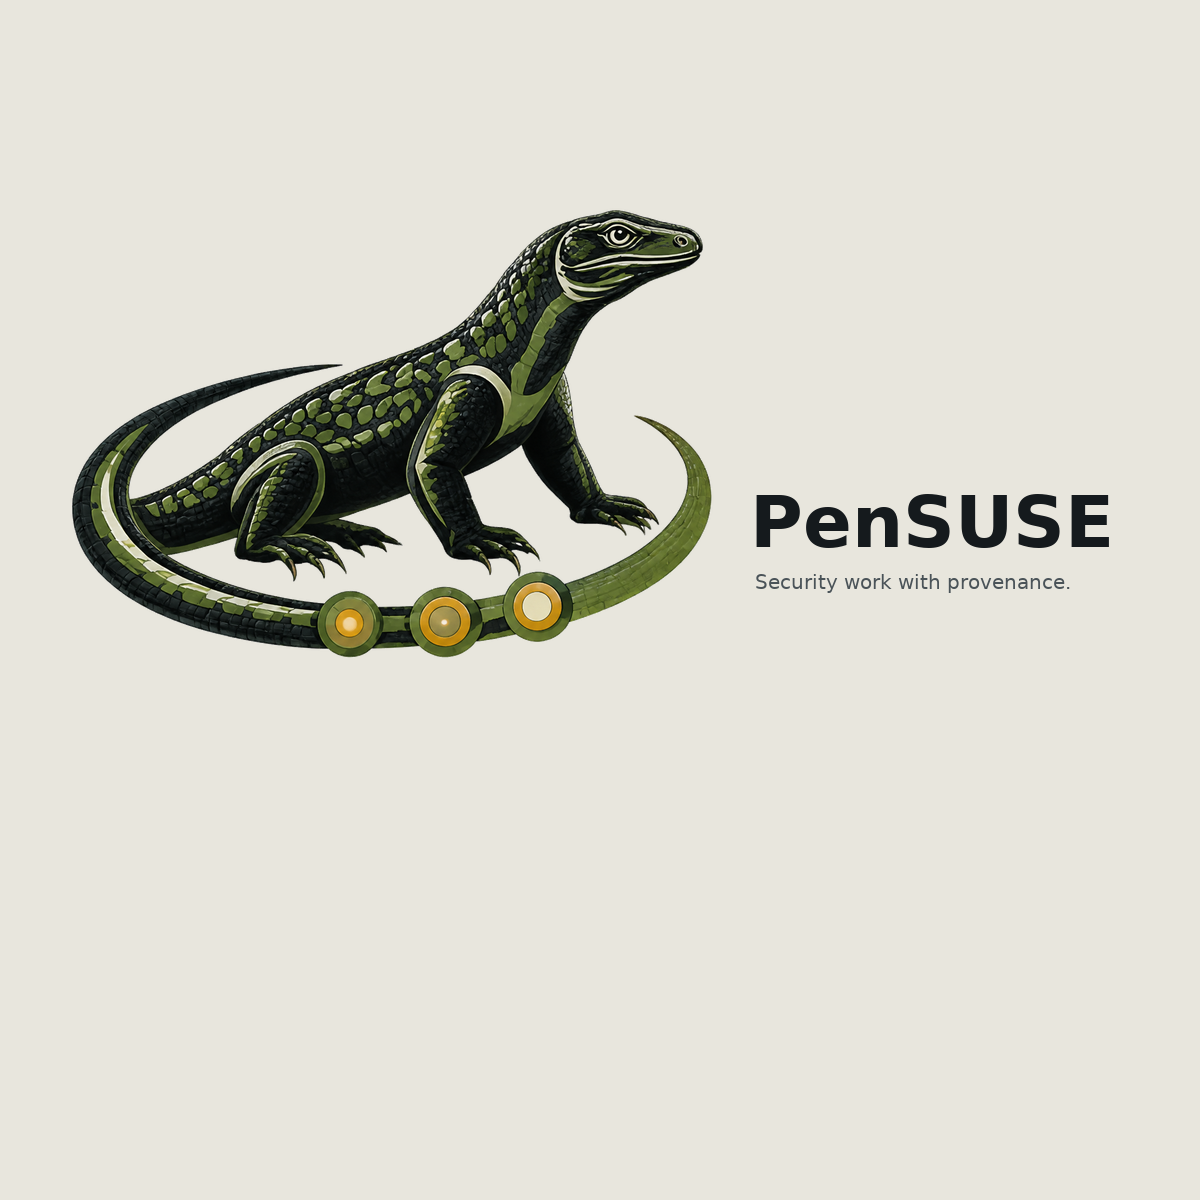
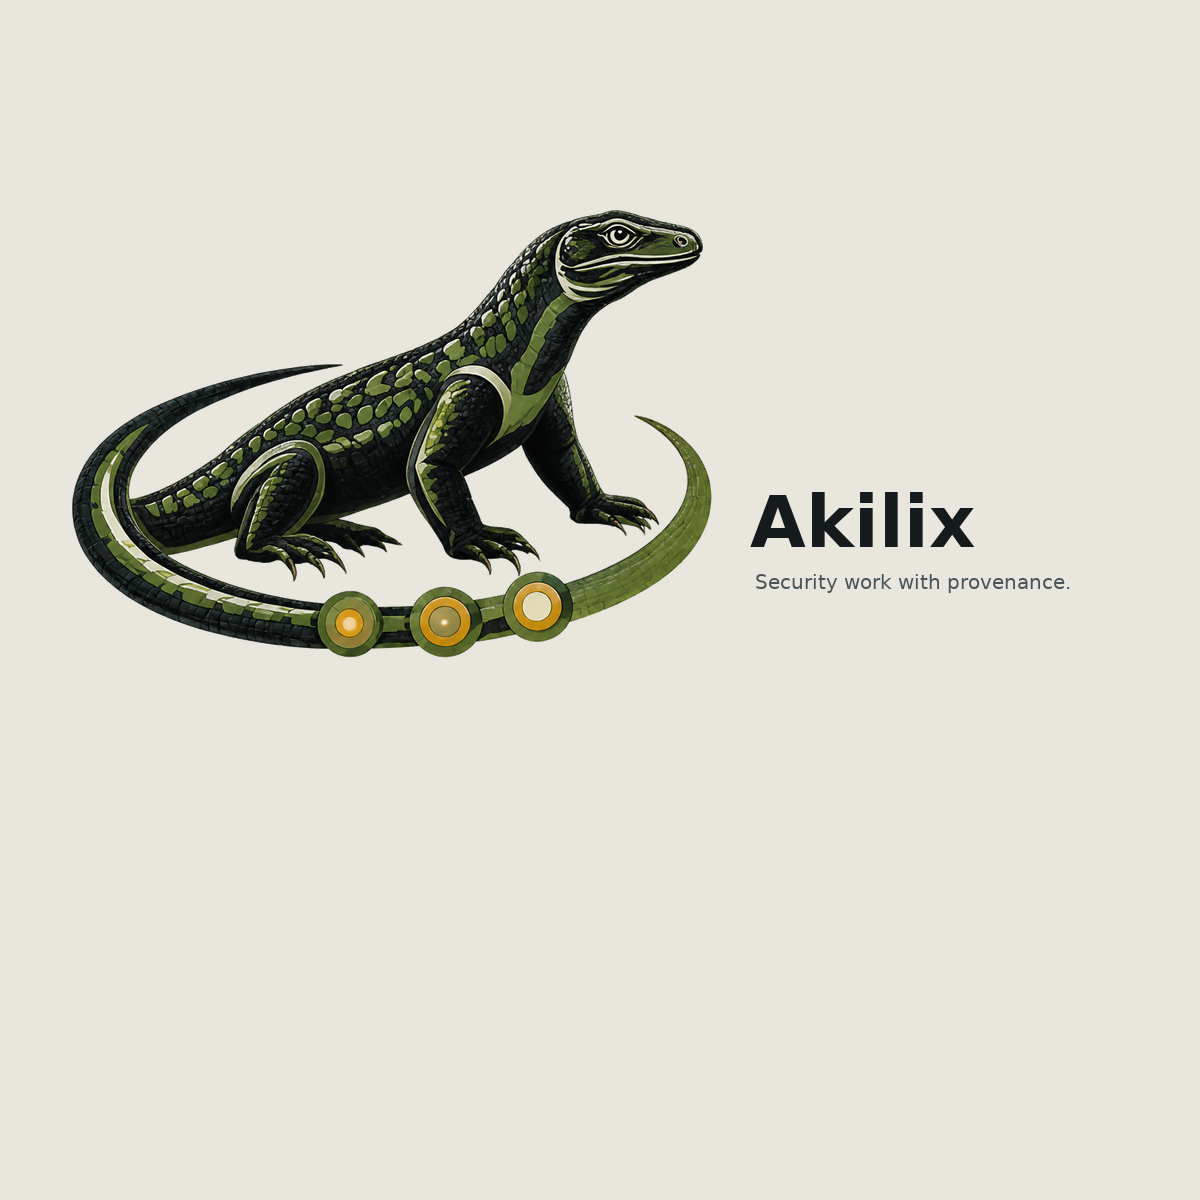
Complete Akilix visual identity

Changed region(s): [[0.6167, 0.4008, 0.925, 0.4625]]

diff --git a/branding/tools/build-assets.py b/branding/tools/build-assets.py
@@ -19,9 +19,9 @@ def place(bg, im, box): bg.alpha_composite(*contain(im, box))
 def text_logo(size, dark=True, tagline=True):
     im = Image.new('RGBA', size, (0,0,0,0)); d=ImageDraw.Draw(im); f=font(max(24,size[1]//4), True)
     x=size[0]//3; y=size[1]//3
-    d.text((x,y), 'Pen', font=f, fill=BONE if dark else GRAPHITE)
-    penw=d.textbbox((x,y),'Pen',font=f)[2]-x
-    d.text((x+penw-3,y), 'SUSE', font=f, fill=LEAF if dark else GREEN)
+    d.text((x,y), 'Aki', font=f, fill=BONE if dark else GRAPHITE)
+    prefixw=d.textbbox((x,y),'Aki',font=f)[2]-x
+    d.text((x+prefixw-3,y), 'lix', font=f, fill=LEAF if dark else GREEN)
     if tagline: d.text((x+2,y+f.size+10), 'SECURITY WORK WITH PROVENANCE.', font=font(max(12,size[1]//25)), fill='#AAB1AF' if dark else SLATE)
     return im
 def logo(size, dark=True, tagline=True):
@@ -62,4 +62,23 @@ def main():
     for i,(label,im) in enumerate(cards):
         x=40+(i%2)*780; y=85+(i//2)*255; cd.text((x,y),label,font=font(18,True),fill=LEAF); thumb=im.convert('RGBA'); thumb.thumbnail((720,210)); contact.paste(thumb,(x,y+28),thumb)
     contact.save(ROOT/'preview.png','PNG',optimize=False)
+
+    # Reference boards are generated from canonical Akilix assets so historical
+    # exploratory artwork cannot accidentally reintroduce the retired name.
+    board1=Image.new('RGBA',(1536,1024),GRAPHITE); bd=ImageDraw.Draw(board1)
+    bd.text((64,48),'AKILIX IDENTITY',font=font(44,True),fill=BONE)
+    bd.text((67,108),'Security work with provenance.',font=font(22),fill=SLATE)
+    place(board1,FULL,(40,180,760,760)); place(board1,darklogo,(720,250,760,360))
+    palette=[BG,GRAPHITE,BONE,GREEN,LEAF,AMBER,SLATE]
+    for i,color in enumerate(palette): bd.rectangle((760+i*92,720,832+i*92,792),fill=color)
+    board1.convert('RGB').save(ROOT/'reference/concept-board-01.png','PNG',optimize=False)
+
+    board2=Image.new('RGBA',(1536,1024),BG); bd=ImageDraw.Draw(board2)
+    bd.text((64,48),'AKILIX SYSTEM SURFACES',font=font(40,True),fill=BONE)
+    samples=[('COMPACT MARK',HEAD),('BOOT',ply),('DESKTOP',Image.open(ROOT/'os/wallpaper/akilix-1920x1080.png')),('SOCIAL',Image.open(ROOT/'web/social-card-1200x630.png'))]
+    for i,(label,sample) in enumerate(samples):
+        x=64+(i%2)*736; y=130+(i//2)*420
+        bd.text((x,y),label,font=font(18,True),fill=LEAF)
+        thumb=sample.convert('RGBA'); thumb.thumbnail((680,360)); board2.alpha_composite(thumb,(x,y+38))
+    board2.convert('RGB').save(ROOT/'reference/concept-board-02.png','PNG',optimize=False)
 if __name__=='__main__': main()

diff --git a/branding/tools/generate-terminal.py b/branding/tools/generate-terminal.py
@@ -7,8 +7,8 @@ assets = {
  'akilix-ascii-small.txt': '      __\n _..-\'  `-._\n/___  ___  _\\\n   `-o-o-o-\'\n Akilix',
  'akilix-ascii-micro.txt': '_/\\_ o-o\nAkilix',
  'akilix-unicode.txt': '    ╭─╮   ●─●─●\n ╭──╯ ╰──╮  Akilix\n ╰───────╯',
- 'akilix-ansi-dark.txt': '\033[32m    __/\\__\033[0m  \033[33m●─●─●\033[0m\n\033[1;37mPen\033[32mSUSE\033[0m\n\033[90mSecurity work with provenance.\033[0m',
- 'akilix-ansi-light.txt': '\033[32m    __/\\__\033[0m  \033[33m●─●─●\033[0m\n\033[1;30mPen\033[32mSUSE\033[0m\n\033[90mSecurity work with provenance.\033[0m',
- 'akilix-ansi.txt': '\033[32m       __\033[0m\n\033[32m _..--\'  `-._\033[0m\n\033[1;37mPen\033[32mSUSE\033[0m  \033[33m●─●─●\033[0m\n\033[90mSecurity work with provenance.\033[0m',
+ 'akilix-ansi-dark.txt': '\033[32m    __/\\__\033[0m  \033[33m●─●─●\033[0m\n\033[1;37mAki\033[32mlix\033[0m\n\033[90mSecurity work with provenance.\033[0m',
+ 'akilix-ansi-light.txt': '\033[32m    __/\\__\033[0m  \033[33m●─●─●\033[0m\n\033[1;30mAki\033[32mlix\033[0m\n\033[90mSecurity work with provenance.\033[0m',
+ 'akilix-ansi.txt': '\033[32m       __\033[0m\n\033[32m _..--\'  `-._\033[0m\n\033[1;37mAki\033[32mlix\033[0m  \033[33m●─●─●\033[0m\n\033[90mSecurity work with provenance.\033[0m',
  'akilix-motd.txt': '  __/\\__  ●─●─●\n Akilix\n Security work with provenance.'}
 for name, data in assets.items(): (root / name).write_text(data + '\n', encoding='utf-8')

diff --git a/scripts/check-branding.py b/scripts/check-branding.py
@@ -82,6 +82,16 @@ for path in ROOT.rglob("*.svg"):
     if re.search(r"<script|(?:href|xlink:href|src)\s*=\s*['\"](?:https?://|data:)", text, re.I):
         FAILURES.append(f"SVG contains script or remote/embedded reference: {path.relative_to(ROOT)}")
 
+for pattern in ("*.md", "*.py", "*.svg", "*.txt", "*.css", "*.scss", "*.json"):
+    for path in ROOT.rglob(pattern):
+        try:
+            text = path.read_text(encoding="utf-8")
+        except (OSError, UnicodeError) as error:
+            FAILURES.append(f"invalid branding text: {path.relative_to(ROOT)}: {error}")
+            continue
+        if "PenSUSE" in text:
+            FAILURES.append(f"retired PenSUSE identity in {path.relative_to(ROOT)}")
+
 for path in (ROOT / "terminal").glob("akilix-ascii-*.txt"):
     try:
         if any(ord(character) > 127 for character in path.read_text(encoding="utf-8")):

diff --git a/docs/IDENTITY.md b/docs/IDENTITY.md
@@ -11,14 +11,10 @@ silently rewritten: forensic and provenance records must never be mutated by a
 branding migration. Any future importer must preserve the original bytes and
 record the migration explicitly.
 
-The Git remote remains at its existing repository location until its owner
-renames it. The Go module declares the intended future repository path
-`github.com/Is0cre/Akilix`; local builds do not require the remote rename.
+The canonical Git remote and Go module path are `github.com/Is0cre/Akilix`.
 
 ## Visual transition
 
-The renamed bitmap files are transitional copies of the earlier artwork and
-must be replaced before the next public Akilix ISO. Text, executable names,
-desktop integration, boot-theme paths, and image metadata already use Akilix.
-Replacement masters must then regenerate and validate every derived bitmap so
-no stale wordmark is shipped.
+All canonical and generated artwork uses the Akilix name. The monitor-lizard
+masters are name-neutral source art; reproducible derivatives add the Akilix
+wordmark for documentation, web, installer, boot, and desktop surfaces.

diff --git a/branding/reference/README.md b/branding/reference/README.md
@@ -1,3 +1,5 @@
 # Akilix reference concepts
 
-Place exploratory concept images in this directory. They are direction only, never canonical production artwork; the build intentionally does not require them.
+These generated review boards show the Akilix identity and system surfaces.
+They are direction only, never canonical production artwork; regenerate them
+from the canonical masters with `make`, rather than editing them by hand.
